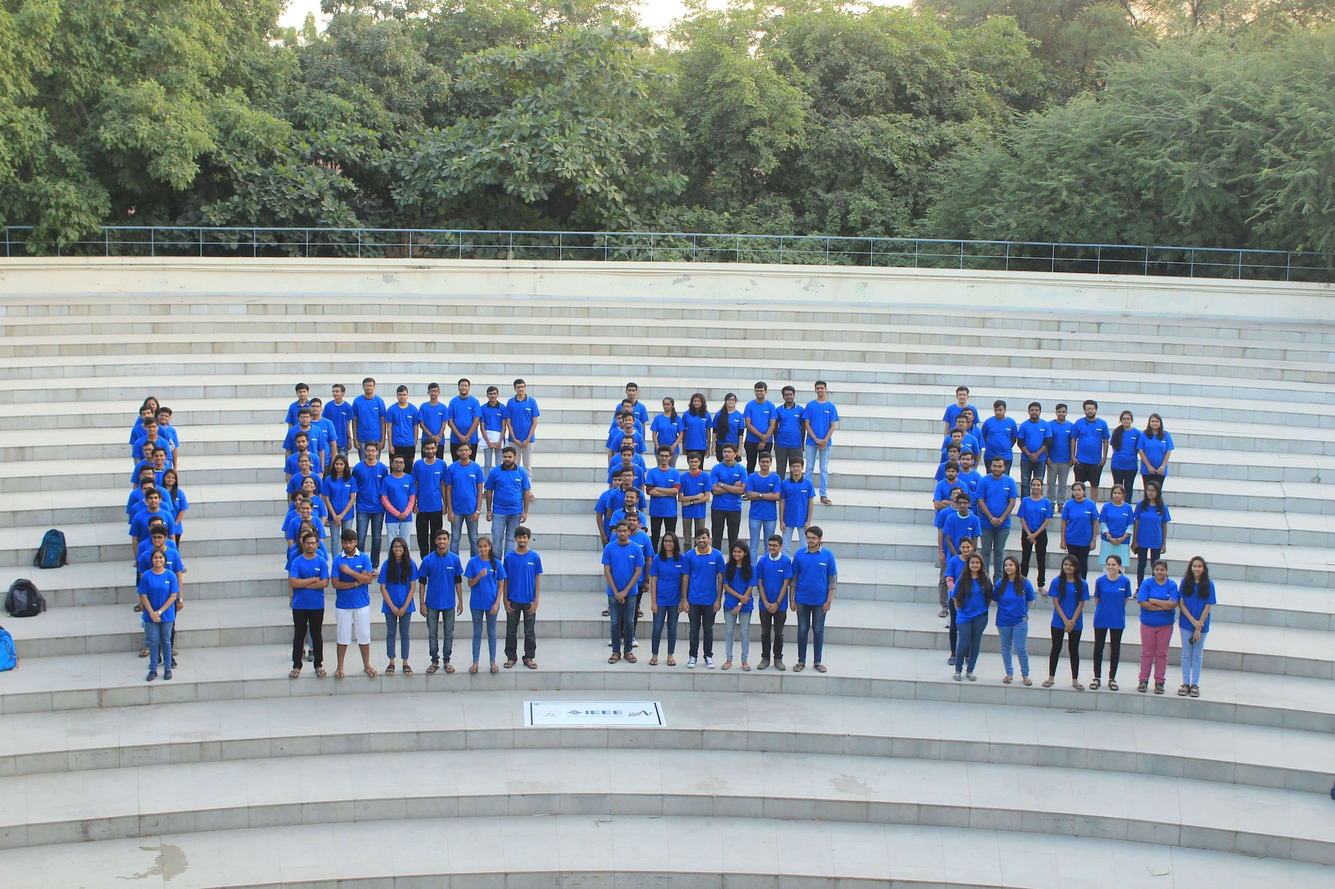
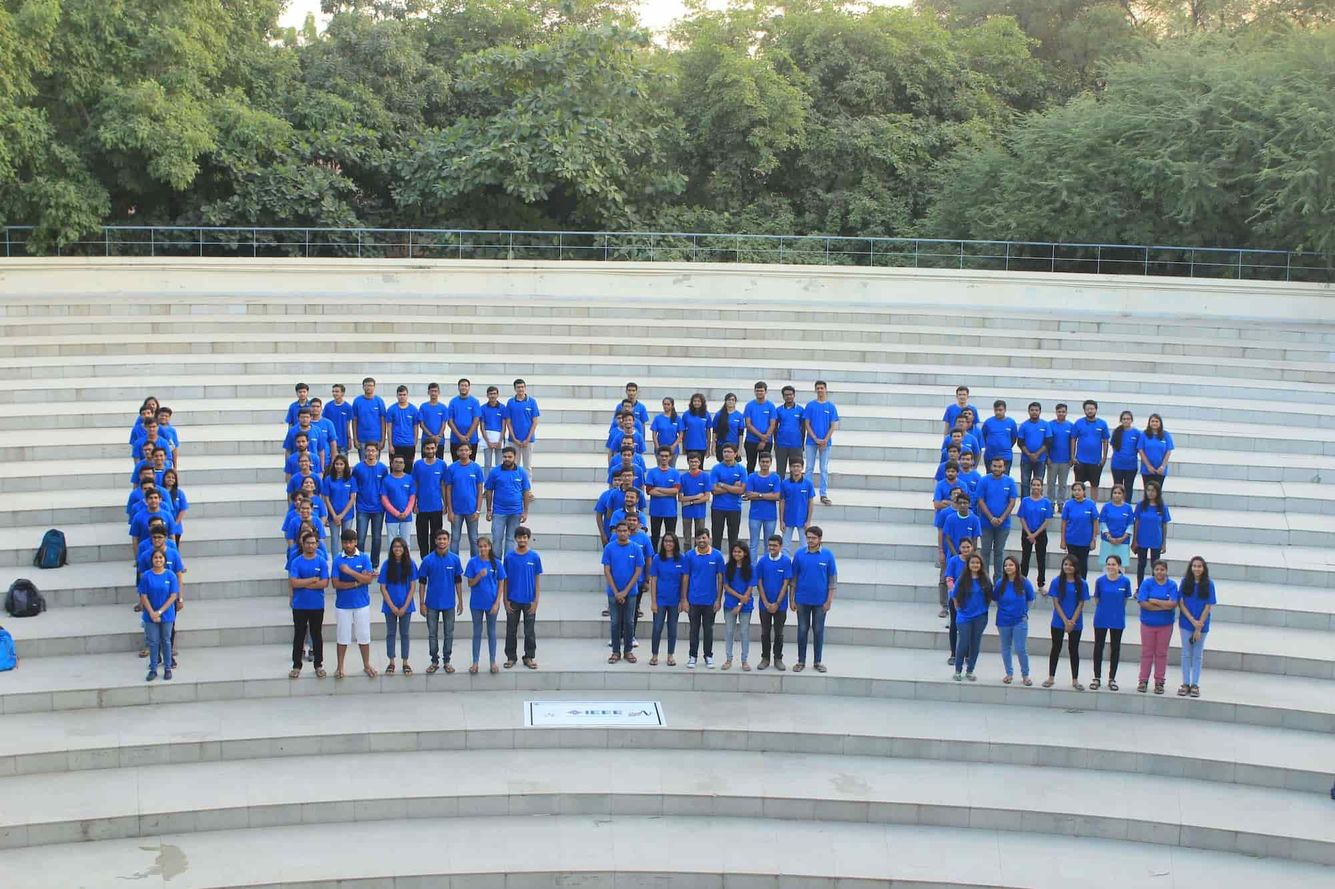
compress img

diff --git a/css/copy.css b/css/copy.css
@@ -292,7 +292,7 @@
     width: 100%;
     height: 100vh;
     /* background: url("../img/back1.JPG") top center; */
-    background: linear-gradient(rgba(103, 176, 209, 0.281), rgba(103, 176, 209, 0.3)), url("../img/Gallery/DSC_0610-700kb.jpg") fixed center center;
+    background: linear-gradient(rgba(103, 176, 209, 0.281), rgba(103, 176, 209, 0.3)), url("../img/Gallery/DSC_0610-200kb.jpg") fixed center center;
     background-size: cover;
     position: relative;
     /* opacity:0.8; */
@@ -537,7 +537,7 @@ section {
     /* padding-bottom: 0px !important; */
     /* margin-bottom: 0px !important; */
     margin-top: -60px;
-    background: linear-gradient(rgba(103, 176, 209, 0.9), rgba(103, 176, 209, 0.4)), url("../img/achievement.jpeg") fixed center center;
+    background: linear-gradient(rgba(103, 176, 209, 0.9), rgba(103, 176, 209, 0.4)), url("../img/achievement-70kb.jpeg") fixed center center;
 }
 .achievements .icon-box {
     padding: 30px;
